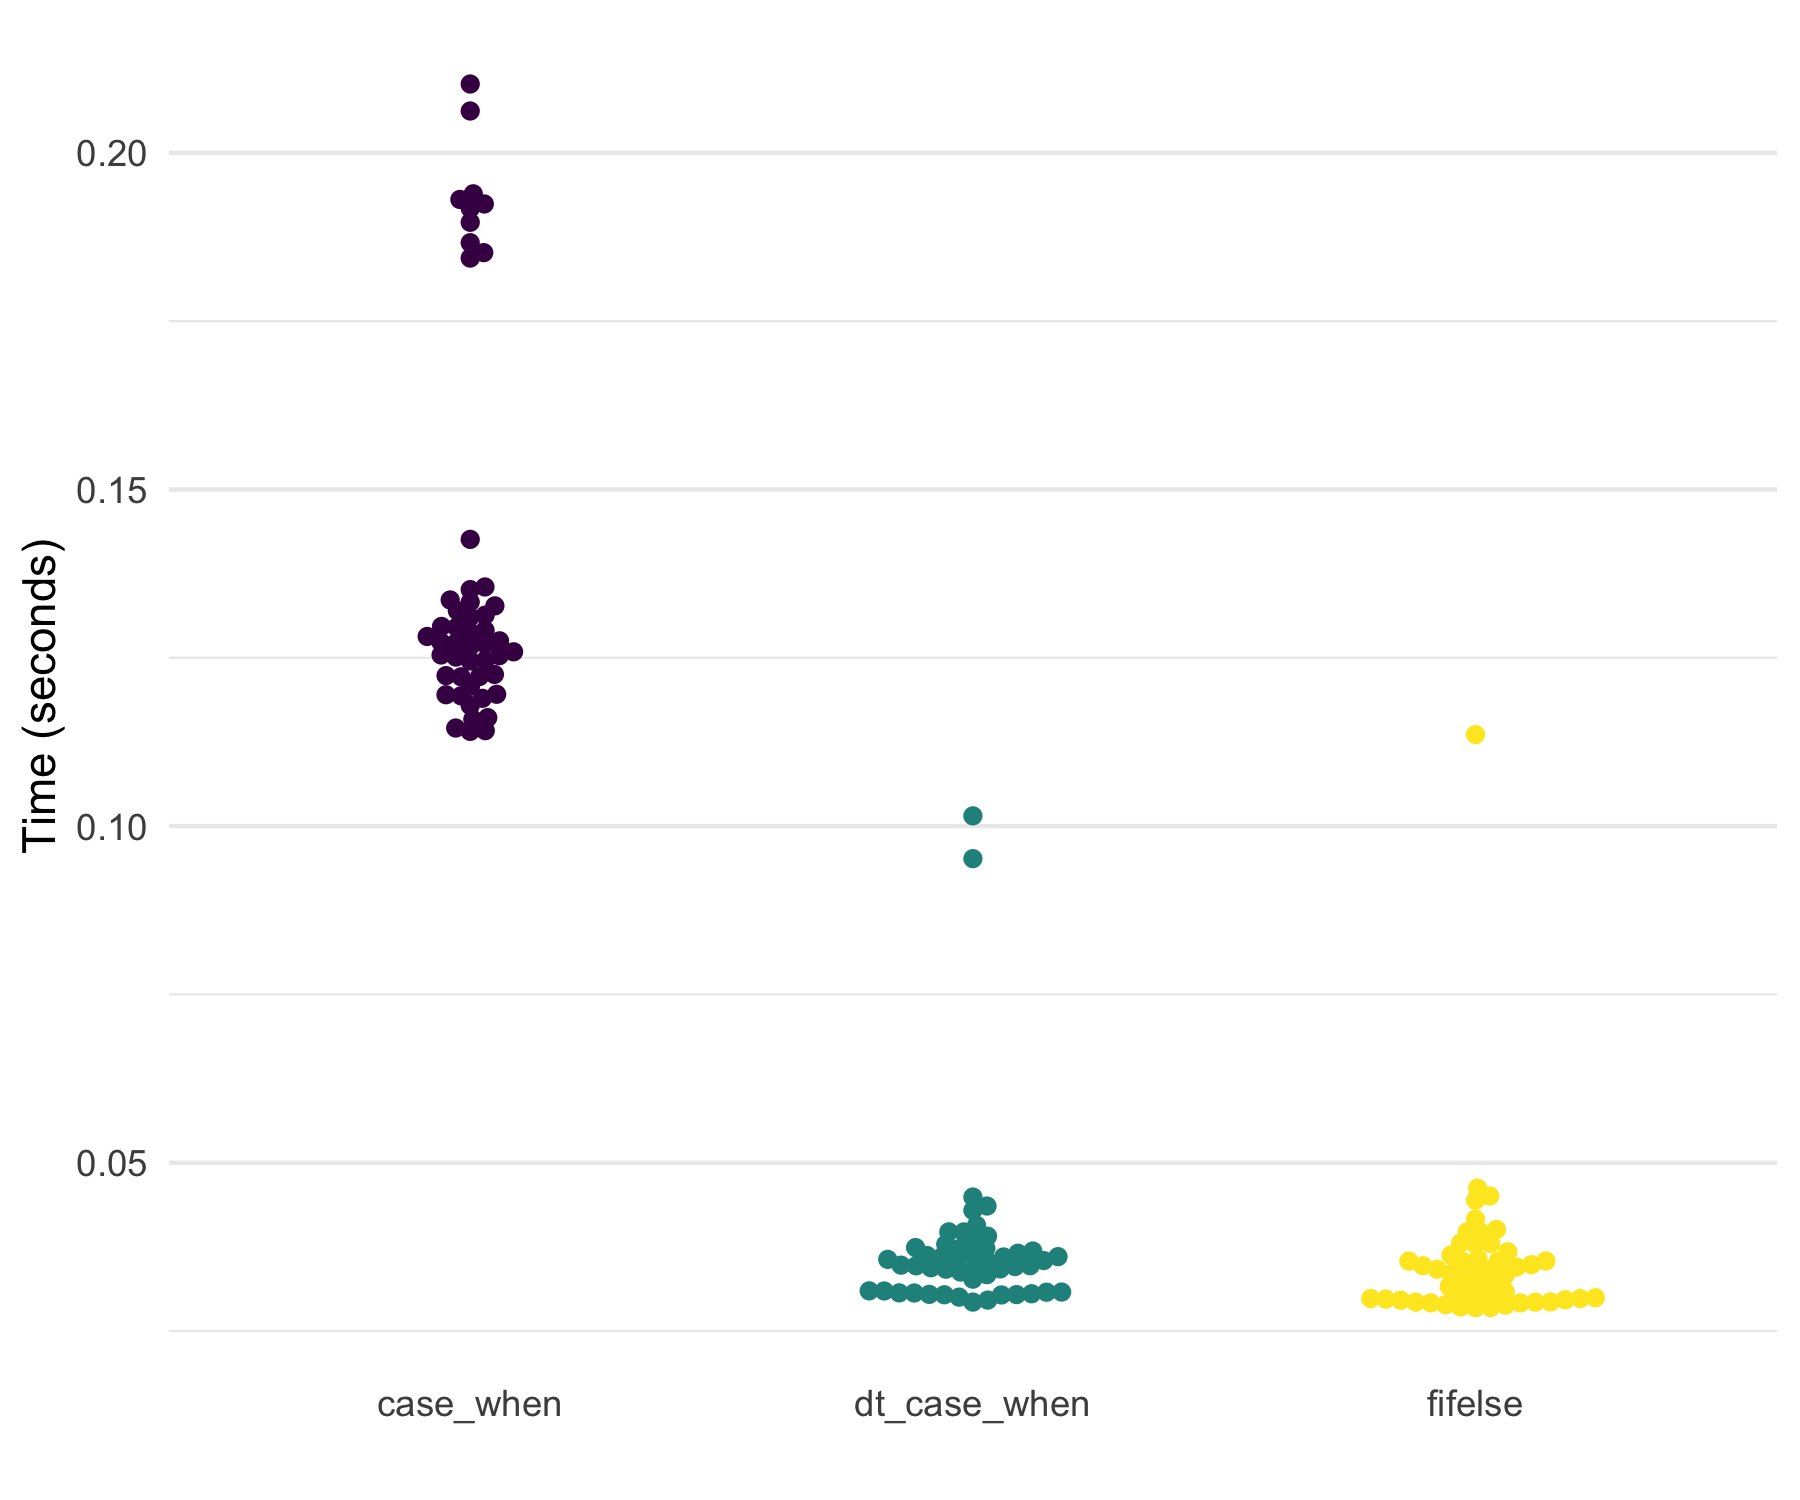
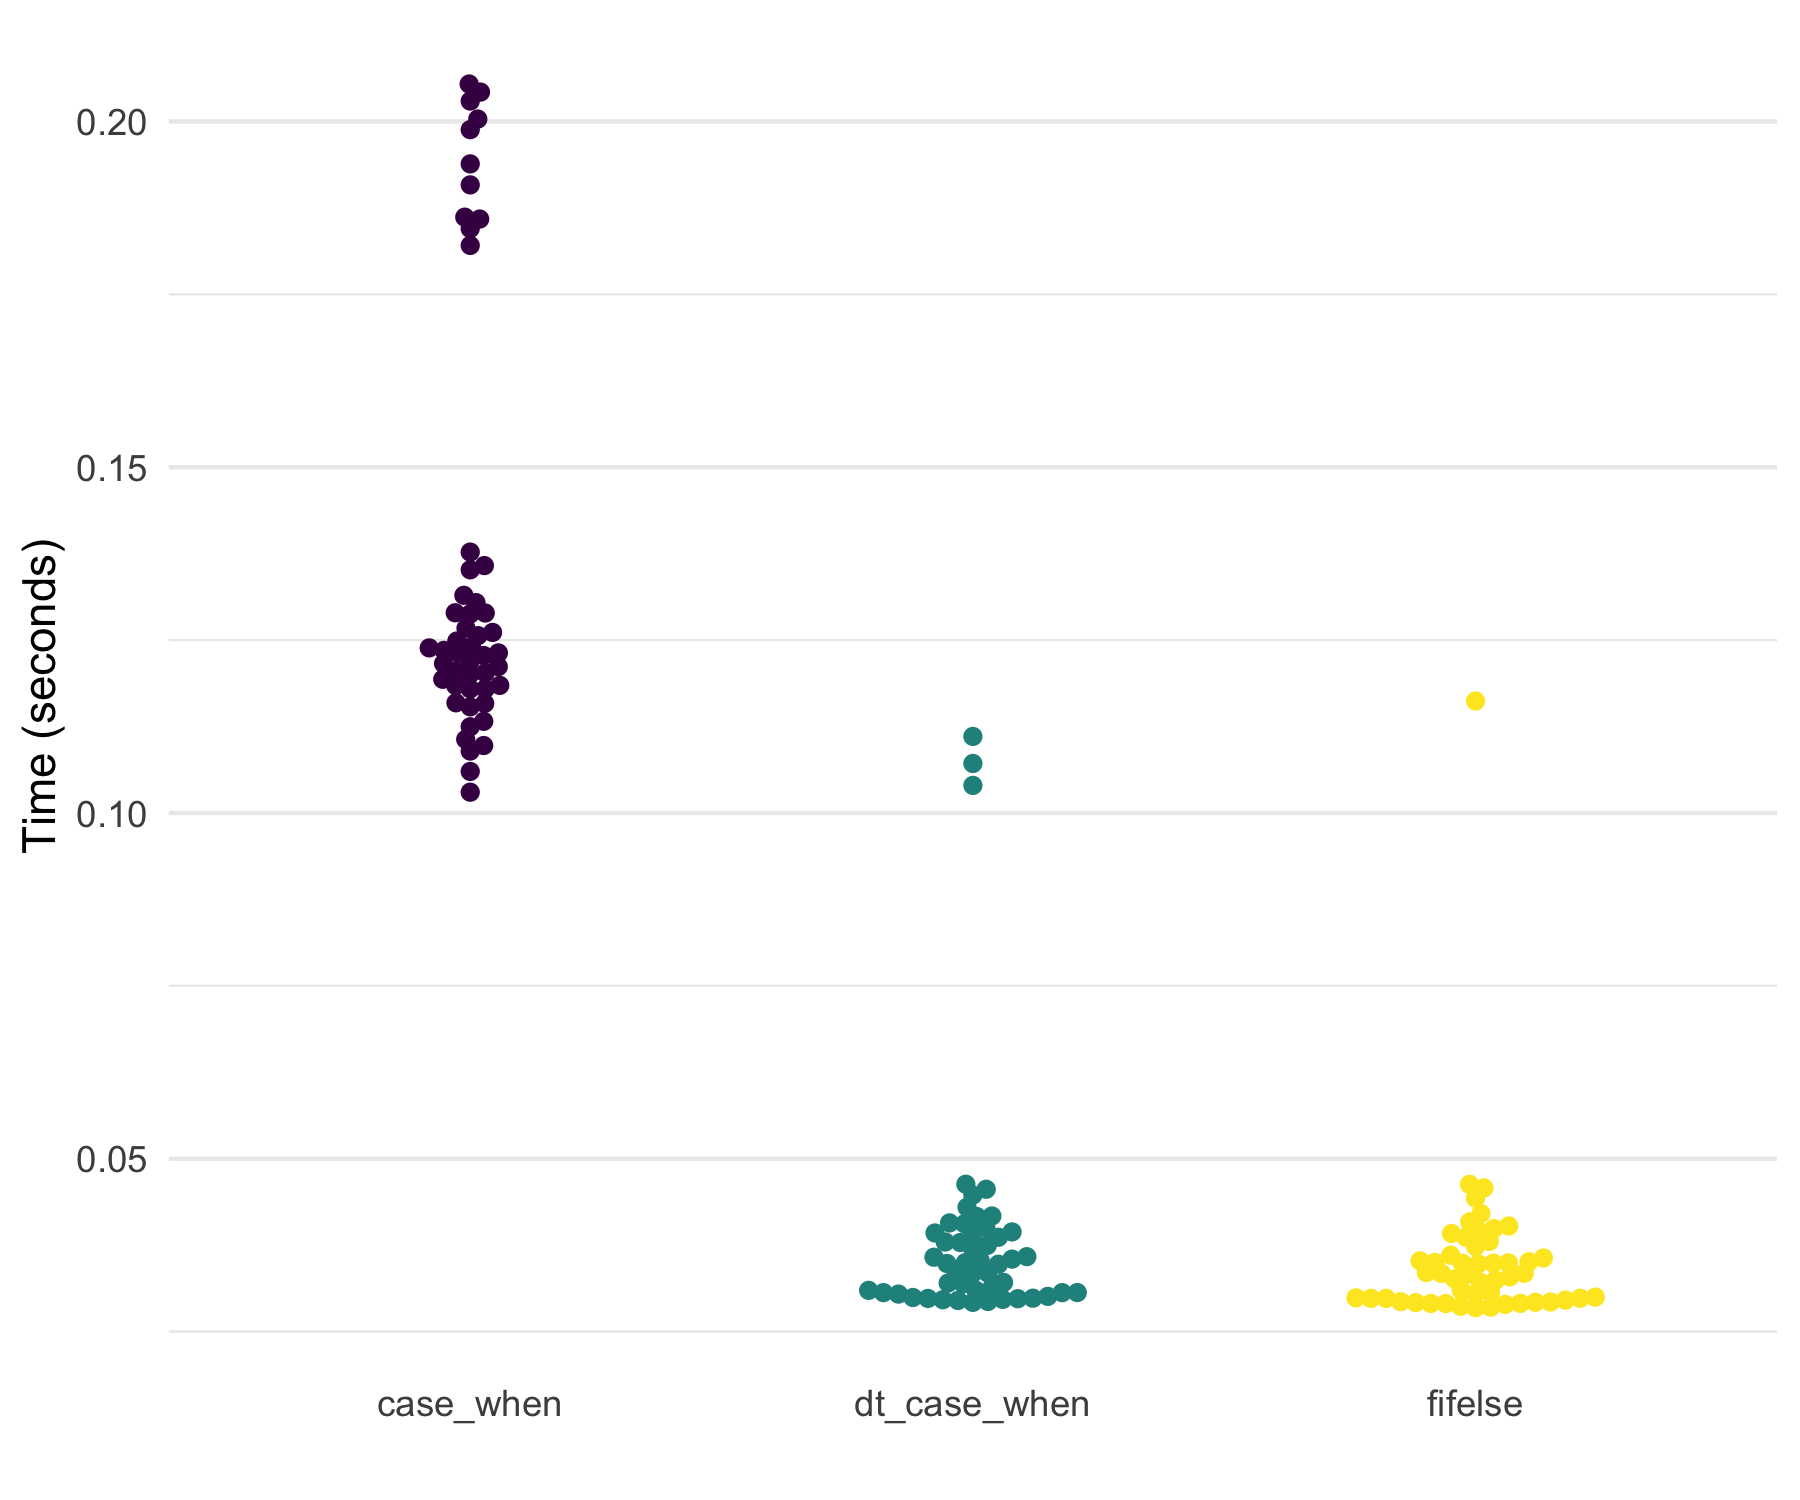
fixed "double" issue in case_when

diff --git a/README.md b/README.md
@@ -1,7 +1,7 @@
 
 <!-- README.md is generated from README.Rmd. Please edit that file -->
 
-# `tidyfast v0.1.0` <img src=".graphics/tidyfast_hex.png" align="right" width="30%" height="30%" />
+# `tidyfast v0.1.1` <img src=".graphics/tidyfast_hex.png" align="right" width="30%" height="30%" />
 
 <!-- badges: start -->
 
@@ -71,9 +71,9 @@ We can nest this data using `dt_nest()`:
 nested <- dt_nest(dt, grp)
 nested
 #>    grp         data
-#> 1:   3 <data.table>
-#> 2:   2 <data.table>
-#> 3:   1 <data.table>
+#> 1:   1 <data.table>
+#> 2:   3 <data.table>
+#> 3:   2 <data.table>
 ```
 
 We can also unnest this with `dt_unnest()`:
@@ -81,29 +81,29 @@ We can also unnest this with `dt_unnest()`:
 ``` r
 dt_unnest(nested, col = data, id = grp)
 #>         grp           x         y         nested1
-#>      1:   3  0.16504029 0.7144019 1,1,1,1,1,1,...
-#>      2:   3  2.35014655 0.2198366 4,3,4,4,3,3,...
-#>      3:   3 -1.69117925 0.1658480 2,3,2,5,2,5,...
-#>      4:   3  0.42003559 0.1705831 5,6,6,3,6,3,...
-#>      5:   3  1.19147946 0.5009870 1,1,2,2,1,2,...
+#>      1:   1  1.74430355 0.1236198 1,1,1,1,1,1,...
+#>      2:   1 -1.22134546 0.1930840 2,1,2,2,2,2,...
+#>      3:   1 -0.74284192 0.1967749 1,2,1,1,3,3,...
+#>      4:   1 -2.41169525 0.7422440 4,4,3,1,3,4,...
+#>      5:   1 -0.59810376 0.1565031 6,5,1,5,3,6,...
 #>     ---                                          
-#>  99996:   1 -0.05003083 0.1343591 7,1,9,7,7,8,...
-#>  99997:   1 -0.66727859 0.3307577 2,2,2,1,2,3,...
-#>  99998:   1  0.01633706 0.4221727 4,3,4,4,3,3,...
-#>  99999:   1 -0.69458994 0.7131046 2,3,2,5,2,5,...
-#> 100000:   1  0.50203405 0.1427996 3,1,8,4,8,5,...
+#>  99996:   2  1.14510593 0.9404775 2,3,6,6,3,4,...
+#>  99997:   2  0.04006474 0.8370938 2,1,2,2,2,2,...
+#>  99998:   2  1.21159489 0.6585533 5,3,2,1,1,1,...
+#>  99999:   2 -0.41479408 0.4716028 2,3,6,6,3,4,...
+#> 100000:   2  0.31899842 0.9813373 3,7,4,4,5,3,...
 #>                                               nested2    id
 #>      1: thing1,thing1,thing1,thing1,thing1,thing1,...     1
-#>      2: thing2,thing2,thing2,thing2,thing2,thing2,...     4
-#>      3: thing1,thing1,thing1,thing1,thing1,thing1,...     5
-#>      4: thing1,thing1,thing1,thing1,thing1,thing1,...     7
-#>      5: thing2,thing2,thing2,thing2,thing2,thing2,...    12
+#>      2: thing2,thing2,thing2,thing2,thing2,thing2,...     2
+#>      3: thing1,thing1,thing1,thing1,thing1,thing1,...     3
+#>      4: thing2,thing2,thing2,thing2,thing2,thing2,...     4
+#>      5: thing2,thing2,thing2,thing2,thing2,thing2,...     6
 #>     ---                                                    
-#>  99996: thing2,thing2,thing2,thing2,thing2,thing2,... 99990
-#>  99997: thing1,thing1,thing1,thing1,thing1,thing1,... 99993
-#>  99998: thing2,thing2,thing2,thing2,thing2,thing2,... 99994
-#>  99999: thing1,thing1,thing1,thing1,thing1,thing1,... 99995
-#> 100000: thing2,thing2,thing2,thing2,thing2,thing2,... 99998
+#>  99996: thing2,thing2,thing2,thing2,thing2,thing2,... 99988
+#>  99997: thing2,thing2,thing2,thing2,thing2,thing2,... 99992
+#>  99998: thing1,thing1,thing1,thing1,thing1,thing1,... 99995
+#>  99999: thing2,thing2,thing2,thing2,thing2,thing2,... 99998
+#> 100000: thing1,thing1,thing1,thing1,thing1,thing1,... 99999
 ```
 
 When our list columns don’t have data tables (as output from
@@ -123,10 +123,10 @@ dt_unnest_vec(dt,
 #>       5:      1       1  thing1
 #>      ---                       
 #>  999996: 100000       8  thing2
-#>  999997: 100000       3  thing2
-#>  999998: 100000       4  thing2
-#>  999999: 100000       9  thing2
-#> 1000000: 100000       3  thing2
+#>  999997: 100000       7  thing2
+#>  999998: 100000       8  thing2
+#>  999999: 100000       6  thing2
+#> 1000000: 100000       7  thing2
 ```
 
 ### If Else
@@ -171,13 +171,13 @@ identical(x_cat, x_cat_fif)
 Notably, `dt_case_when()` is very fast and memory efficient, given it is
 built on `data.table::fifelse()`.
 
-<img src="man/figures/README-unnamed-chunk-8-1.png" width="100%" />
+<img src="man/figures/README-unnamed-chunk-8-1.png" width="70%" />
 
     #> # A tibble: 3 x 3
     #>   expression     median mem_alloc
     #>   <chr>        <bch:tm> <bch:byt>
-    #> 1 case_when     127.4ms   148.8MB
-    #> 2 dt_case_when   35.1ms    34.3MB
+    #> 1 case_when     123.7ms   148.8MB
+    #> 2 dt_case_when   34.9ms    34.3MB
     #> 3 fifelse        33.4ms    34.3MB
 
 ## Note
